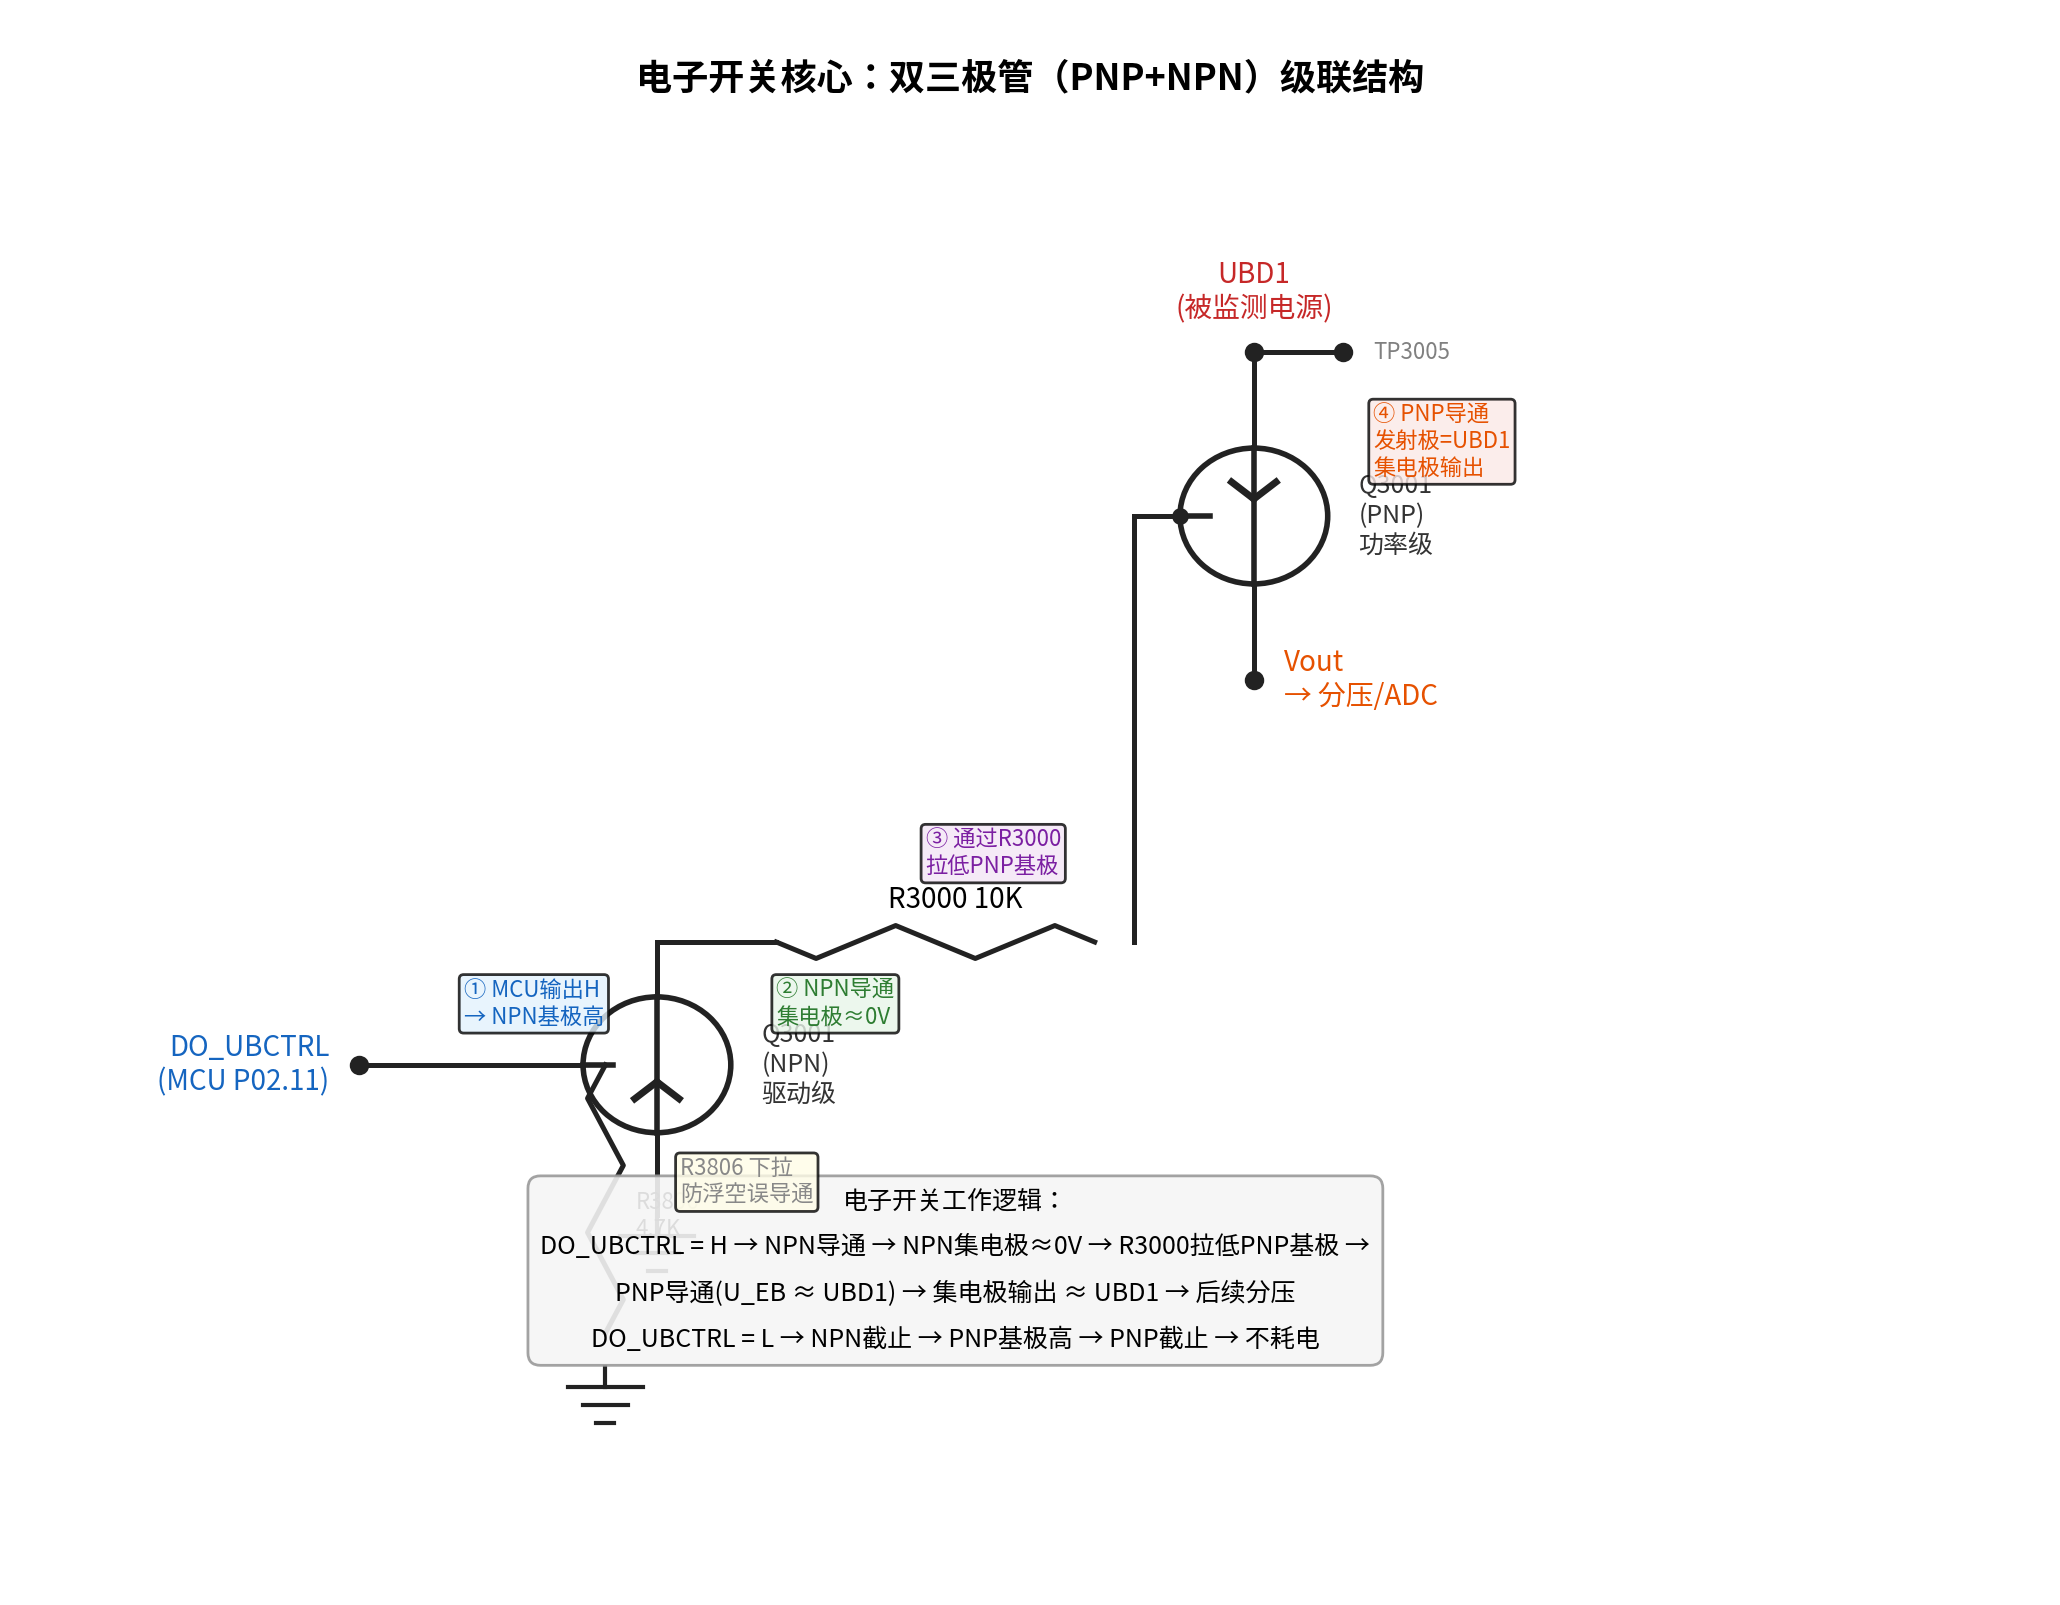
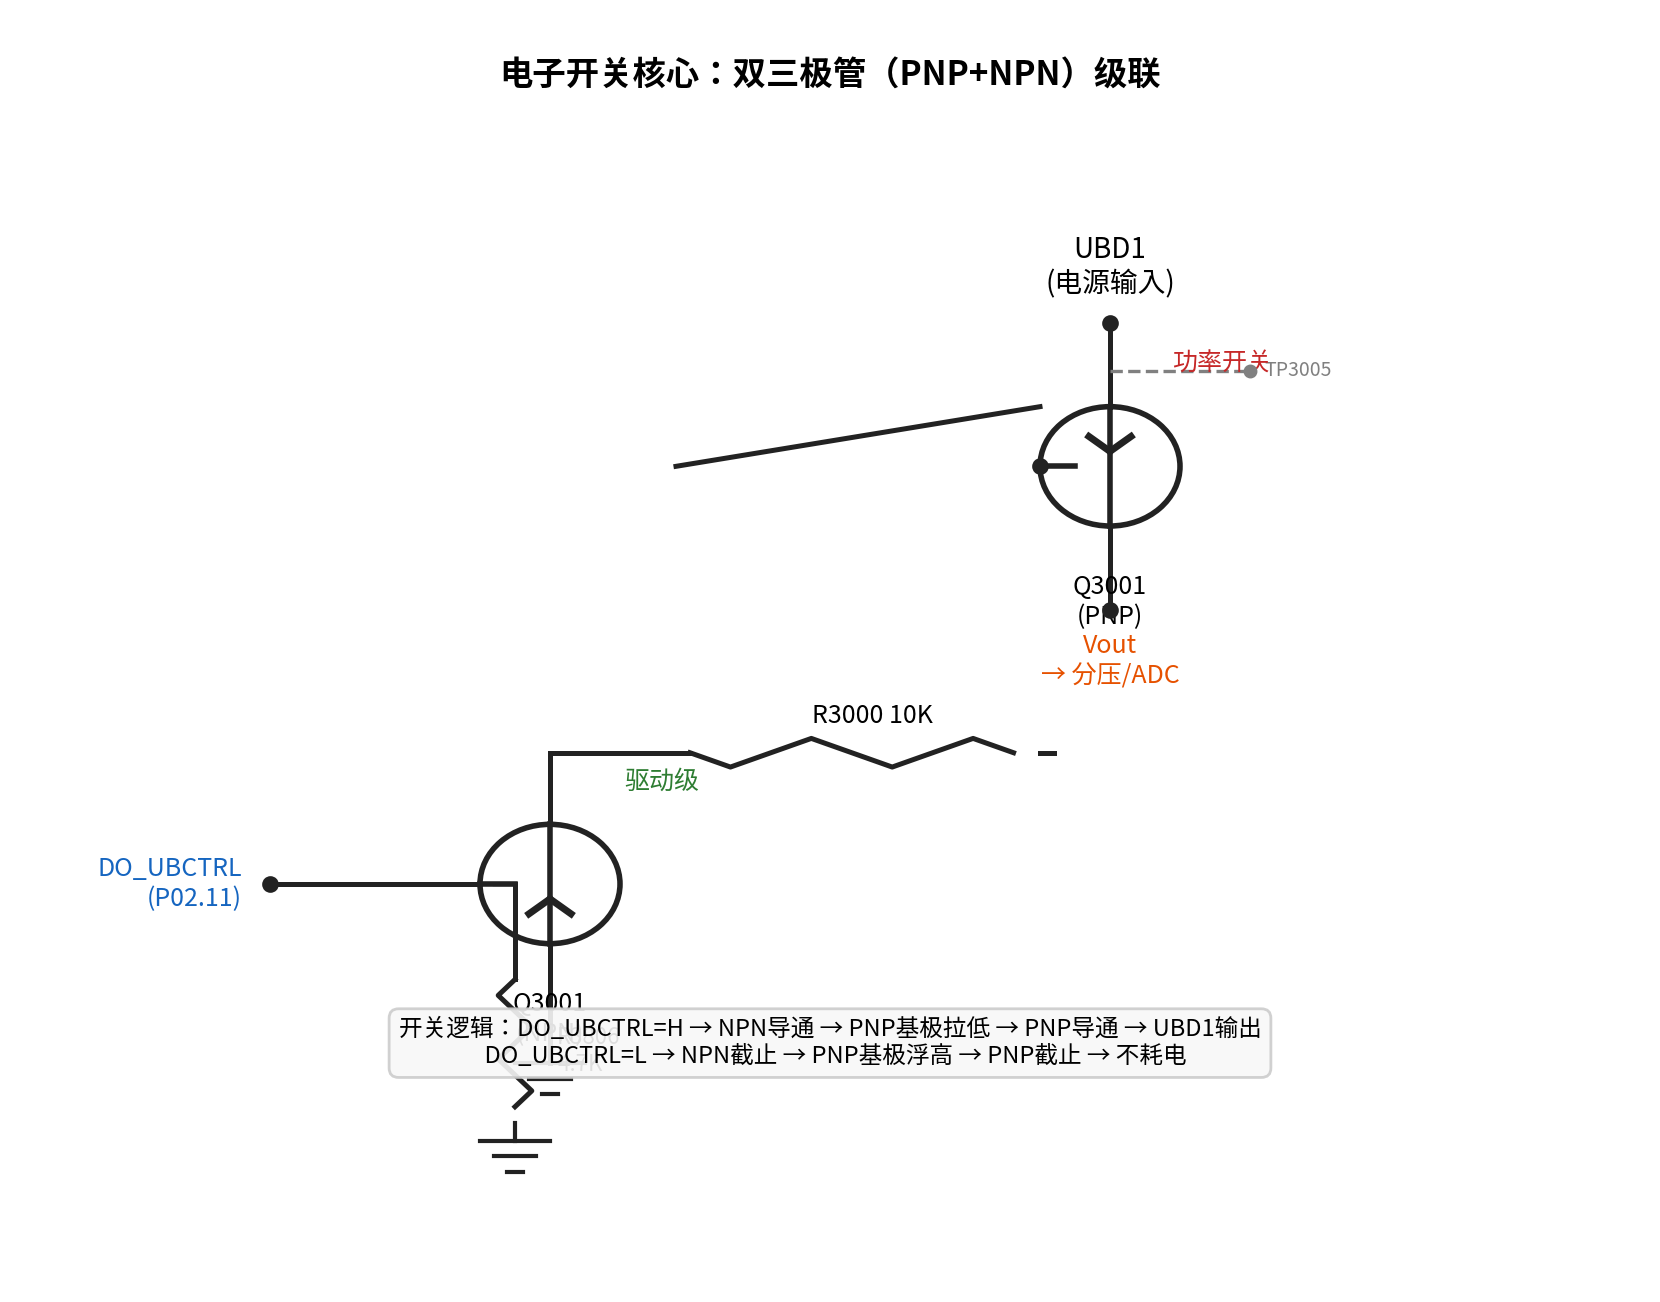
修复图片路径(../images/) + 重画电子开关核心图(mpl精简版)

diff --git a/scripts/circuit_01_schematic.py b/scripts/circuit_01_schematic.py
@@ -136,192 +136,126 @@ print("✅ 图2 完成\n")
 
 
 # ═══════════════════════════════════════════════════════
-# 图 3：电子开关核心（matplotlib 手绘，精确定位）
+# 图 3：电子开关核心 — matplotlib 手绘精简版
 # ═══════════════════════════════════════════════════════
-print("图 3：电子开关核心（matplotlib）")
+print("图 3：电子开关核心（matplotlib 精简）")
 
-fig3, ax3 = plt.subplots(1, 1, figsize=(10, 7.5))
-ax3.set_xlim(-1, 12)
-ax3.set_ylim(-1, 9)
+fig3, ax3 = plt.subplots(1, 1, figsize=(8, 6))
+ax3.set_xlim(-1, 10)
+ax3.set_ylim(-1, 8)
 ax3.axis("off")
 
-font = get_font(9)
-font_sm = get_font(8)
-font_lg = get_font(11)
+font9 = get_font(9)
+font10 = get_font(10)
 
-# Helper functions for drawing components
-def draw_pnp(ax, x, y, size=0.5):
-    """Draw PNP symbol: emitter=top, collector=bottom, base=left."""
-    r = size * 0.9
-    circle = plt.Circle((x, y), r, fill=False, edgecolor="#222", linewidth=2.0)
-    ax.add_patch(circle)
-    # Vertical line through center
-    ax.plot([x, x], [y-r, y+r], color="#222", linewidth=2.0)
-    # Emitter arrow (top, pointing IN/up)
-    arrow_y = y + r - r*0.5
-    ax.plot([x-r*0.3, x], [arrow_y, arrow_y-r*0.25], color="#222", linewidth=2.5)
-    ax.plot([x+r*0.3, x], [arrow_y, arrow_y-r*0.25], color="#222", linewidth=2.5)
-    # Base line (left)
-    ax.plot([x-r, x-r+r*0.4], [y, y], color="#222", linewidth=2.0)
-    return {"x": x, "y": y, "emitter": (x, y+r), "collector": (x, y-r), "base": (x-r, y)}
+# ── NPN (bottom-left) ──
+nx, ny = 2.5, 2.0
+r = 0.5
+# circle
+ax3.add_patch(plt.Circle((nx, ny), r, fill=False, edgecolor="#222", lw=2))
+# vertical bar
+ax3.plot([nx, nx], [ny-r, ny+r], color="#222", lw=2)
+# emitter arrow (bottom, outward)
+ey = ny - r + r*0.5
+ax3.plot([nx-r*0.3, nx], [ey, ey+r*0.25], color="#222", lw=2.5)
+ax3.plot([nx+r*0.3, nx], [ey, ey+r*0.25], color="#222", lw=2.5)
+# base line (left)
+ax3.plot([nx-r, nx-r+r*0.5], [ny, ny], color="#222", lw=2)
+# label
+ax3.text(nx, ny-0.9, "Q3001\n(NPN)", fontsize=9, ha="center", va="top", fontproperties=font9)
 
-def draw_npn(ax, x, y, size=0.5):
-    """Draw NPN symbol: collector=top, emitter=bottom, base=left."""
-    r = size * 0.9
-    circle = plt.Circle((x, y), r, fill=False, edgecolor="#222", linewidth=2.0)
-    ax.add_patch(circle)
-    ax.plot([x, x], [y-r, y+r], color="#222", linewidth=2.0)
-    # Emitter arrow (bottom, pointing OUT/down)
-    arrow_y = y - r + r*0.5
-    ax.plot([x-r*0.3, x], [arrow_y, arrow_y+r*0.25], color="#222", linewidth=2.5)
-    ax.plot([x+r*0.3, x], [arrow_y, arrow_y+r*0.25], color="#222", linewidth=2.5)
-    # Base line (left)
-    ax.plot([x-r, x-r+r*0.4], [y, y], color="#222", linewidth=2.0)
-    return {"x": x, "y": y, "collector": (x, y+r), "emitter": (x, y-r), "base": (x-r, y)}
+# ── PNP (top-right) ──
+px, py = 6.5, 5.5
+ax3.add_patch(plt.Circle((px, py), r, fill=False, edgecolor="#222", lw=2))
+ax3.plot([px, px], [py-r, py+r], color="#222", lw=2)
+# emitter arrow (top, inward)
+ey = py + r - r*0.5
+ax3.plot([px-r*0.3, px], [ey, ey-r*0.25], color="#222", lw=2.5)
+ax3.plot([px+r*0.3, px], [ey, ey-r*0.25], color="#222", lw=2.5)
+# base line (left)
+ax3.plot([px-r, px-r+r*0.5], [py, py], color="#222", lw=2)
+# label
+ax3.text(px, py-0.9, "Q3001\n(PNP)", fontsize=9, ha="center", va="top", fontproperties=font9)
 
-def draw_res(ax, x1, y1, x2, y2, label="", label_loc="top", fsize=9, fp=None):
-    """Draw resistor as zigzag."""
-    length = x2 - x1 if x2 != x1 else y2 - y1
-    n = 4
-    seg = length / (2*n + 1)
-    xs, ys = [x1], [y1]
-    if x2 != x1:
-        for i in range(n):
-            xs.append(x1 + seg*(2*i+1))
-            ys.append(y1 - 0.12 if i%2==0 else y1 + 0.12)
-            xs.append(x1 + seg*(2*i+2))
-            ys.append(y1)
-    else:
-        for i in range(n):
-            ys.append(y1 + seg*(2*i+1))
-            xs.append(x1 - 0.12 if i%2==0 else x1 + 0.12)
-            ys.append(y1 + seg*(2*i+2))
-            xs.append(x1)
-    ax.plot(xs, ys, color="#222", linewidth=1.8)
-    if label and fp:
-        midx, midy = (x1+x2)/2, (y1+y2)/2
-        if label_loc == "top":
-            ax.text(midx, midy+0.2, label, fontsize=fsize, ha="center", va="bottom", fontproperties=fp)
-        elif label_loc == "right":
-            ax.text(midx+0.2, midy, label, fontsize=fsize, ha="left", va="center", fontproperties=fp)
-
-def draw_gnd(ax, x, y):
-    ax.plot([x, x], [y, y-0.15], color="#222", linewidth=1.5)
-    ax.plot([x-0.25, x+0.25], [y-0.15, y-0.15], color="#222", linewidth=1.5)
-    ax.plot([x-0.15, x+0.15], [y-0.28, y-0.28], color="#222", linewidth=1.5)
-    ax.plot([x-0.06, x+0.06], [y-0.41, y-0.41], color="#222", linewidth=1.5)
-
-def draw_dot(ax, x, y, label="", label_loc="right", fsize=9, fp=None, color="#333"):
-    ax.plot(x, y, 'o', color="#222", markersize=6, zorder=5, markerfacecolor="#222")
-    if label and fp:
-        if label_loc == "right":
-            ax.text(x+0.2, y, label, fontsize=fsize, va="center", fontproperties=fp, color=color)
-        elif label_loc == "left":
-            ax.text(x-0.2, y, label, fontsize=fsize, va="center", ha="right", fontproperties=fp, color=color)
-        elif label_loc == "top":
-            ax.text(x, y+0.2, label, fontsize=fsize, ha="center", va="bottom", fontproperties=fp, color=color)
-
-def line(ax, x1, y1, x2, y2, style="-"):
-    ax.plot([x1, x2], [y1, y2], color="#222", linewidth=1.8, linestyle=style)
-
-# ═══ Layout ═══
-# NPN at bottom-left, PNP at top-right
-npn_x, npn_y = 3.0, 2.5
-pnp_x, pnp_y = 7.0, 6.5
-
-# ── NPN transistor ──
-npn = draw_npn(ax3, npn_x, npn_y, size=0.55)
-ax3.text(npn_x+0.7, npn_y, "Q3001\n(NPN)\n驱动级", fontsize=9, va="center", fontproperties=font, color="#333")
-
+# ── Connections ──
 # NPN base ← DO_UBCTRL
-nbase = npn["base"]
-line(ax3, nbase[0], nbase[1], nbase[0]-1.5, nbase[1])
-draw_dot(ax3, nbase[0]-1.5, nbase[1], "DO_UBCTRL\n(MCU P02.11)", "left", 10, font_lg, "#1565C0")
+ax3.plot([nx-r, 0.5], [ny, ny], color="#222", lw=1.8)
+ax3.plot(0.5, ny, 'o', color="#222", markersize=5, zorder=5, markerfacecolor="#222")
+ax3.text(0.3, ny, "DO_UBCTRL\n(P02.11)", fontsize=9, ha="right", va="center", fontproperties=font9, color="#1565C0")
+
+# R3806: NPN base → down → GND
+rx = nx - r*0.5
+ax3.plot([rx, rx], [ny, ny-0.8], color="#222", lw=1.8)
+# zigzag resistor
+nz = 4; seg = 1.2/(2*nz+1); xs=[rx]; ys=[ny-0.8]
+for i in range(nz):
+    ys.append(ny-0.8 - seg*(2*i+1))
+    xs.append(rx - 0.12 if i%2==0 else rx + 0.12)
+    ys.append(ny-0.8 - seg*(2*i+2))
+    xs.append(rx)
+ax3.plot(xs, ys, color="#222", lw=1.8)
+# ground
+gy = ny-0.8-1.2
+ax3.plot([rx, rx], [gy, gy-0.15], color="#222", lw=1.5)
+for i, (ll, lr) in enumerate([(0.25,0.25),(0.15,0.15),(0.06,0.06)]):
+    ax3.plot([rx-ll, rx+lr], [gy-0.15-i*0.13, gy-0.15-i*0.13], color="#222", lw=1.5)
+ax3.text(rx+0.3, ny-0.8-0.6, "R3806\n4.7K", fontsize=8, ha="left", va="center", fontproperties=get_font(8))
+
+# Link NPN base to R3806 top
+ax3.plot([nx-r+0.1, rx], [ny, ny], color="#222", lw=1.2)
 
 # NPN emitter → GND
-nem = npn["emitter"]
-line(ax3, nem[0], nem[1], nem[0], nem[1]-0.6)
-draw_gnd(ax3, nem[0], nem[1]-0.6)
+ax3.plot([nx, nx], [ny-r, 0.5], color="#222", lw=1.8)
+ax3.plot([nx-0.25, nx+0.25], [0.5, 0.5], color="#222", lw=1.5)
+ax3.plot([nx-0.15, nx+0.15], [0.37, 0.37], color="#222", lw=1.5)
+ax3.plot([nx-0.06, nx+0.06], [0.24, 0.24], color="#222", lw=1.5)
 
-# R3806 pull-down from NPN base to GND
-r3806_x = nbase[0] + 0.15
-draw_res(ax3, r3806_x, nbase[1], r3806_x, 0.3, "R3806\n4.7K", "right", 8, font_sm)
-draw_gnd(ax3, r3806_x, 0.3)
-# Wire from base to R3806 top
-ax3.plot([nbase[0], r3806_x], [nbase[1], nbase[1]], color="#222", linewidth=1.2)
+# NPN collector → up → right → R3000
+top_y = ny + r + 0.6
+ax3.plot([nx, nx], [ny+r, top_y], color="#222", lw=1.8)
+ax3.plot([nx, nx+1.0], [top_y, top_y], color="#222", lw=1.8)
+# R3000 zigzag
+nz = 4; seg = 2.6/(2*nz+1); xs=[nx+1.0]; ys=[top_y]
+for i in range(nz):
+    xs.append(nx+1.0 + seg*(2*i+1))
+    ys.append(top_y - 0.12 if i%2==0 else top_y + 0.12)
+    xs.append(nx+1.0 + seg*(2*i+2))
+    ys.append(top_y)
+ax3.plot(xs, ys, color="#222", lw=1.8)
+ax3.text(nx+1.0+1.3, top_y+0.25, "R3000 10K", fontsize=9, ha="center", fontproperties=font9)
 
-# NPN collector → up → R3000 → right → up to PNP base
-ncol = npn["collector"]
-line(ax3, ncol[0], ncol[1], ncol[0], ncol[1]+0.4)
-line(ax3, ncol[0], ncol[1]+0.4, ncol[0]+0.8, ncol[1]+0.4)
-draw_res(ax3, ncol[0]+0.8, ncol[1]+0.4, ncol[0]+3.2, ncol[1]+0.4, "R3000 10K", "top", 10, font)
-line(ax3, ncol[0]+3.2, ncol[1]+0.4, ncol[0]+3.2, pnp_y)
-
-# ── PNP transistor ──
-pnp = draw_pnp(ax3, pnp_x, pnp_y, size=0.55)
-ax3.text(pnp_x+0.7, pnp_y, "Q3001\n(PNP)\n功率级", fontsize=9, va="center", fontproperties=font, color="#333")
-
-# Connect R3000 → PNP base (NPN collector through R3000 to PNP base)
-pbase = pnp["base"]
-# The wire from R3000 comes from below to pnp_y at x=ncol[0]+3.2
-# PNP base is at x=pnp_x-r (r≈0.495) = pnp_x-0.495 ≈ 6.505
-# ncol[0]+3.2 = npn_x + 3.2 = 3.0 + 3.2 = 6.2
-# So: (6.2, pnp_y) → draw wire to (6.505, pnp_y)
-line(ax3, ncol[0]+3.2, pnp_y, pbase[0], pnp_y)
-# Also need a dot at the connection
-ax3.plot(pbase[0], pnp_y, 'o', color="#222", markersize=5, zorder=5, markerfacecolor="#222")
+# R3000 → PNP base
+ax3.plot([nx+1.0+2.6, px-r], [top_y, top_y], color="#222", lw=1.8)
+ax3.plot([px-r, top_y+0.3], [px-r, py], color="#222", lw=1.8)
+ax3.plot(px-r, py, 'o', color="#222", markersize=5, zorder=5, markerfacecolor="#222")
 
 # PNP emitter → UBD1
-pem = pnp["emitter"]
-line(ax3, pem[0], pem[1], pem[0], pem[1]+0.7)
-draw_dot(ax3, pem[0], pem[1]+0.7, "UBD1\n(被监测电源)", "top", 10, font_lg, "#C62828")
+ax3.plot([px, px], [py+r, py+r+0.7], color="#222", lw=1.8)
+ax3.plot(px, py+r+0.7, 'o', color="#222", markersize=5, zorder=5, markerfacecolor="#222")
+ax3.text(px, py+r+0.9, "UBD1\n(电源输入)", fontsize=10, ha="center", va="bottom", fontproperties=font10)
 
-# TP3005
-draw_dot(ax3, pem[0]+0.6, pem[1]+0.7, "TP3005", "right", 8, font_sm, "gray")
-line(ax3, pem[0], pem[1]+0.7, pem[0]+0.6, pem[1]+0.7)
+# TP3005 stub
+ax3.plot([px, px+1.0], [py+r+0.3, py+r+0.3], color="gray", lw=1.2, linestyle="--")
+ax3.plot(px+1.0, py+r+0.3, 'o', color="gray", markersize=4, zorder=5, markerfacecolor="gray")
+ax3.text(px+1.1, py+r+0.3, "TP3005", fontsize=7, va="center", fontproperties=get_font(7), color="gray")
 
 # PNP collector → Vout
-pcol = pnp["collector"]
-line(ax3, pcol[0], pcol[1], pcol[0], pcol[1]-0.7)
-draw_dot(ax3, pcol[0], pcol[1]-0.7, "Vout\n→ 分压/ADC", "right", 10, font_lg, "#E65100")
+ax3.plot([px, px], [py-r, py-r-0.7], color="#222", lw=1.8)
+ax3.plot(px, py-r-0.7, 'o', color="#222", markersize=5, zorder=5, markerfacecolor="#222")
+ax3.text(px, py-r-0.9, "Vout\n→ 分压/ADC", fontsize=9, ha="center", va="top", fontproperties=font9, color="#E65100")
 
-# ── State annotations ──
-# Control path
-ax3.annotate("① MCU输出H\n→ NPN基极高", xy=(nbase[0]-0.8, nbase[1]+0.3),
-            fontsize=8, fontproperties=font_sm, color="#1565C0",
-            bbox=dict(boxstyle="round,pad=0.2", facecolor="#E3F2FD", alpha=0.8))
+# ── Role labels ──
+ax3.text(nx+0.8, ny+r+0.3, "驱动级", fontsize=9, ha="center", fontproperties=font9, color="#2E7D32")
+ax3.text(px+0.8, py+r+0.3, "功率开关", fontsize=9, ha="center", fontproperties=font9, color="#C62828")
 
-# NPN ON effect
-ax3.annotate("② NPN导通\n集电极≈0V", xy=(npn_x+0.8, npn_y+0.3),
-            fontsize=8, fontproperties=font_sm, color="#2E7D32",
-            bbox=dict(boxstyle="round,pad=0.2", facecolor="#E8F5E9", alpha=0.8))
+# ── Switch logic at bottom ──
+ax3.text(4.5, 0.5,
+         "开关逻辑：DO_UBCTRL=H → NPN导通 → PNP基极拉低 → PNP导通 → UBD1输出\n"
+         "  DO_UBCTRL=L → NPN截止 → PNP基极浮高 → PNP截止 → 不耗电",
+         fontsize=8.5, ha="center", fontproperties=font9,
+         bbox=dict(boxstyle="round,pad=0.4", facecolor="#F8F8F8", edgecolor="#CCC", alpha=0.9))
 
-# R3000 effect
-ax3.annotate("③ 通过R3000\n拉低PNP基极", xy=(ncol[0]+1.8, ncol[1]+0.9),
-            fontsize=8, fontproperties=font_sm, color="#7B1FA2",
-            bbox=dict(boxstyle="round,pad=0.2", facecolor="#F3E5F5", alpha=0.8))
-
-# PNP ON effect
-ax3.annotate("④ PNP导通\n发射极=UBD1\n集电极输出", xy=(pnp_x+0.8, pnp_y+0.3),
-            fontsize=8, fontproperties=font_sm, color="#E65100",
-            bbox=dict(boxstyle="round,pad=0.2", facecolor="#FBE9E7", alpha=0.8))
-
-# Switch logic summary at bottom
-ax3.text(5, 1.0,
-         "电子开关工作逻辑：\n"
-         "DO_UBCTRL = H → NPN导通 → NPN集电极≈0V → R3000拉低PNP基极 →\n"
-         "PNP导通(U_EB ≈ UBD1) → 集电极输出 ≈ UBD1 → 后续分压\n"
-         "DO_UBCTRL = L → NPN截止 → PNP基极高 → PNP截止 → 不耗电",
-         fontsize=9, ha="center", fontproperties=font,
-         bbox=dict(boxstyle="round,pad=0.5", facecolor="#F5F5F5", edgecolor="#999", alpha=0.9),
-         va="center", linespacing=2.0)
-
-# R3806 annotation
-ax3.annotate("R3806 下拉\n防浮空误导通", xy=(r3806_x+0.5, 1.5),
-            fontsize=8, fontproperties=font_sm, color="#888",
-            bbox=dict(boxstyle="round,pad=0.2", facecolor="#FFFDE7", alpha=0.8))
-
-fig3.suptitle("电子开关核心：双三极管（PNP+NPN）级联结构", fontsize=13, fontweight="bold", y=1.01)
+fig3.suptitle("电子开关核心：双三极管（PNP+NPN）级联", fontsize=12, fontweight="bold", y=1.01)
 fig3.tight_layout()
 savefig(fig3, "circuit_01_switch_core.png")
 print("✅ 图3 完成\n")

diff --git a/circuits/circuit_01_ubd1_power_detection.md b/circuits/circuit_01_ubd1_power_detection.md
@@ -65,7 +65,7 @@ DO_UBCTRL = L (0V)
 
 ### 完整电路
 
-![完整原理图](images/circuit_01_full_schematic.png)
+![完整原理图](../images/circuit_01_full_schematic.png)
 
 **信号路径**：UBD1 → PNP 发射极 → PNP 集电极 → R3005/R3010 分压 → C3001 滤波 → MCU ADC
 
@@ -73,11 +73,11 @@ DO_UBCTRL = L (0V)
 
 ### 电子开关核心
 
-![电子开关核心](images/circuit_01_switch_core.png)
+![电子开关核心](../images/circuit_01_switch_core.png)
 
 ### 分压网络
 
-![分压网络](images/circuit_01_divider.png)
+![分压网络](../images/circuit_01_divider.png)
 
 ### 分压比计算
 
@@ -184,7 +184,7 @@ $$
 
 ## 🎯 信号时序
 
-![控制时序](images/circuit_01_timing.png)
+![控制时序](../images/circuit_01_timing.png)
 
 | 阶段 | DO_UBCTRL | NPN | PNP | ADC |
 |:--|:--|:--|:--|:--|
@@ -284,7 +284,7 @@ A：改分压网络：R3005 → 68K（分压比 4.7/(68+4.7) ≈ 0.065），24V 
 
 ## 📊 系统框图
 
-![系统框图](images/circuit_01_block.png)
+![系统框图](../images/circuit_01_block.png)
 
 ---
 